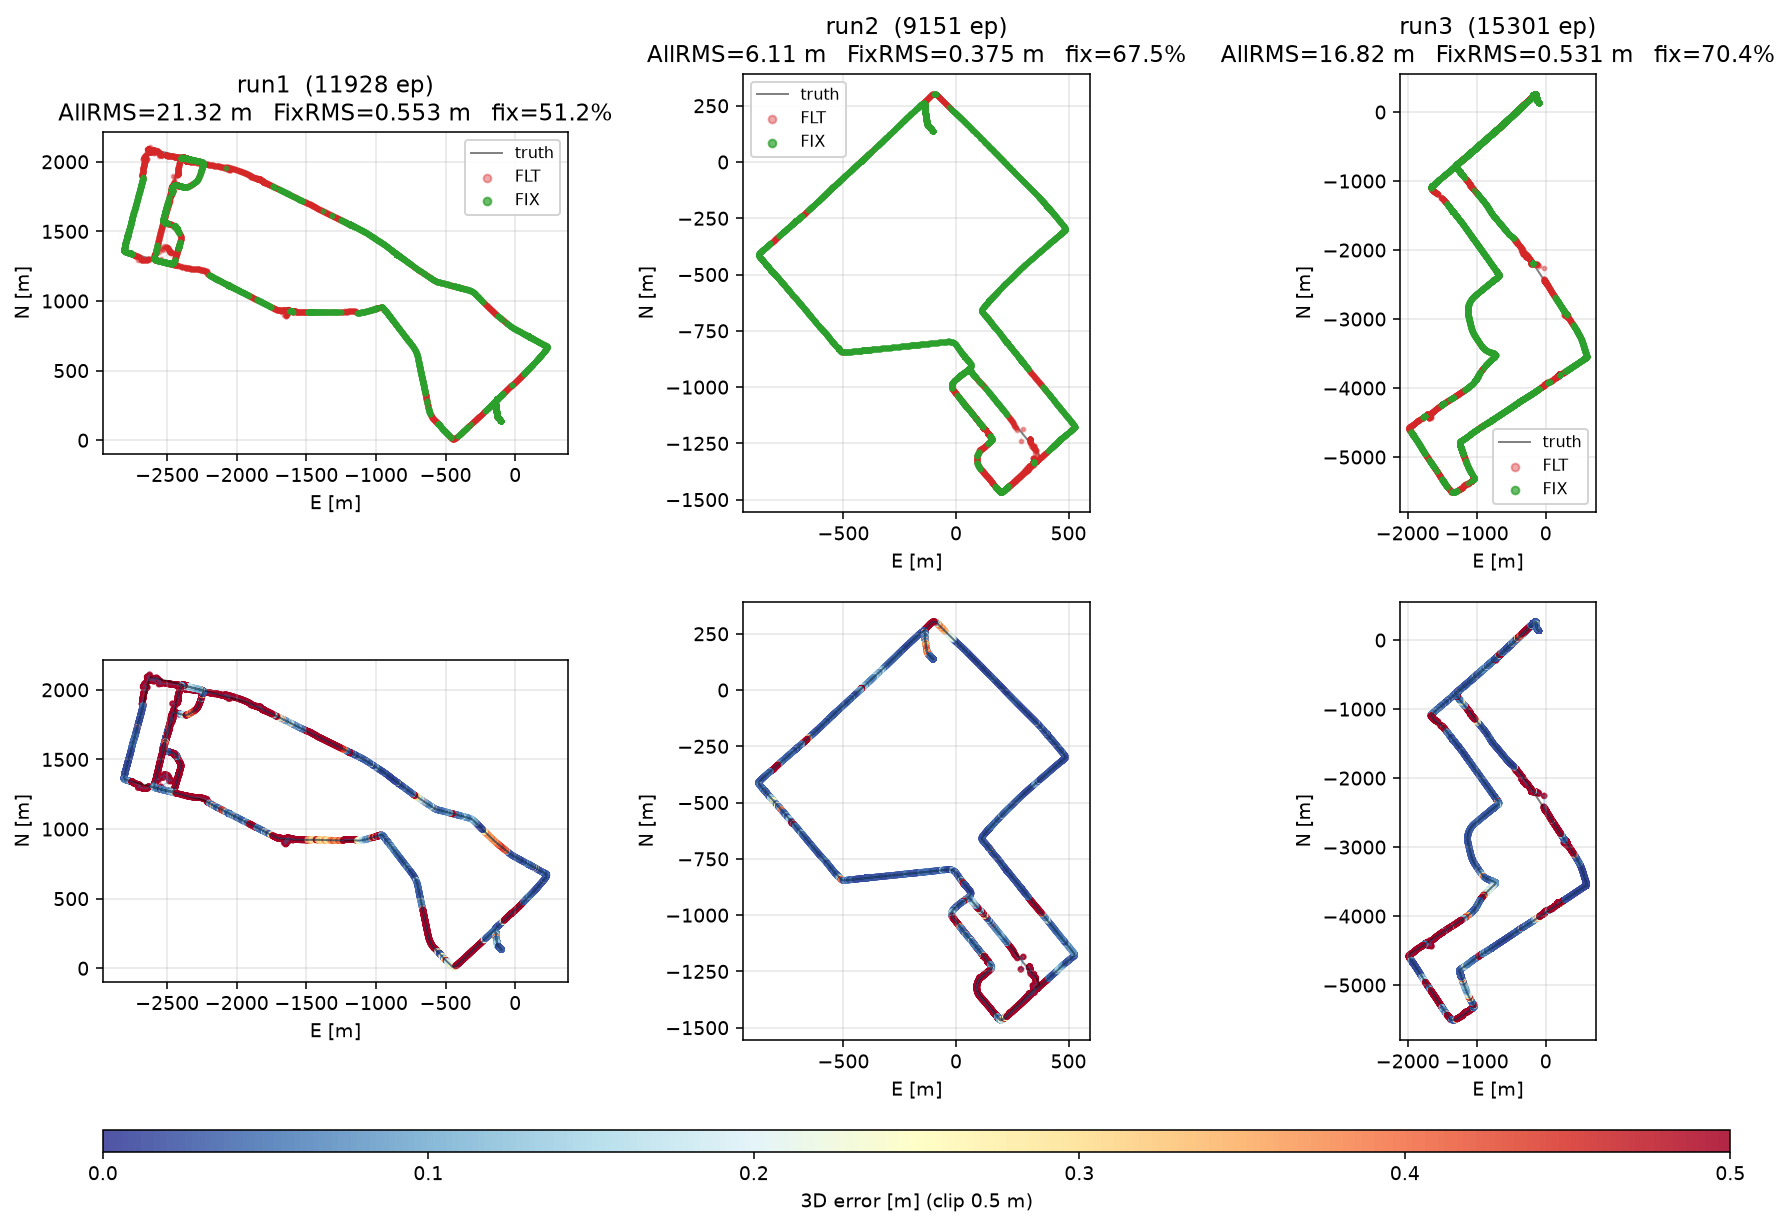
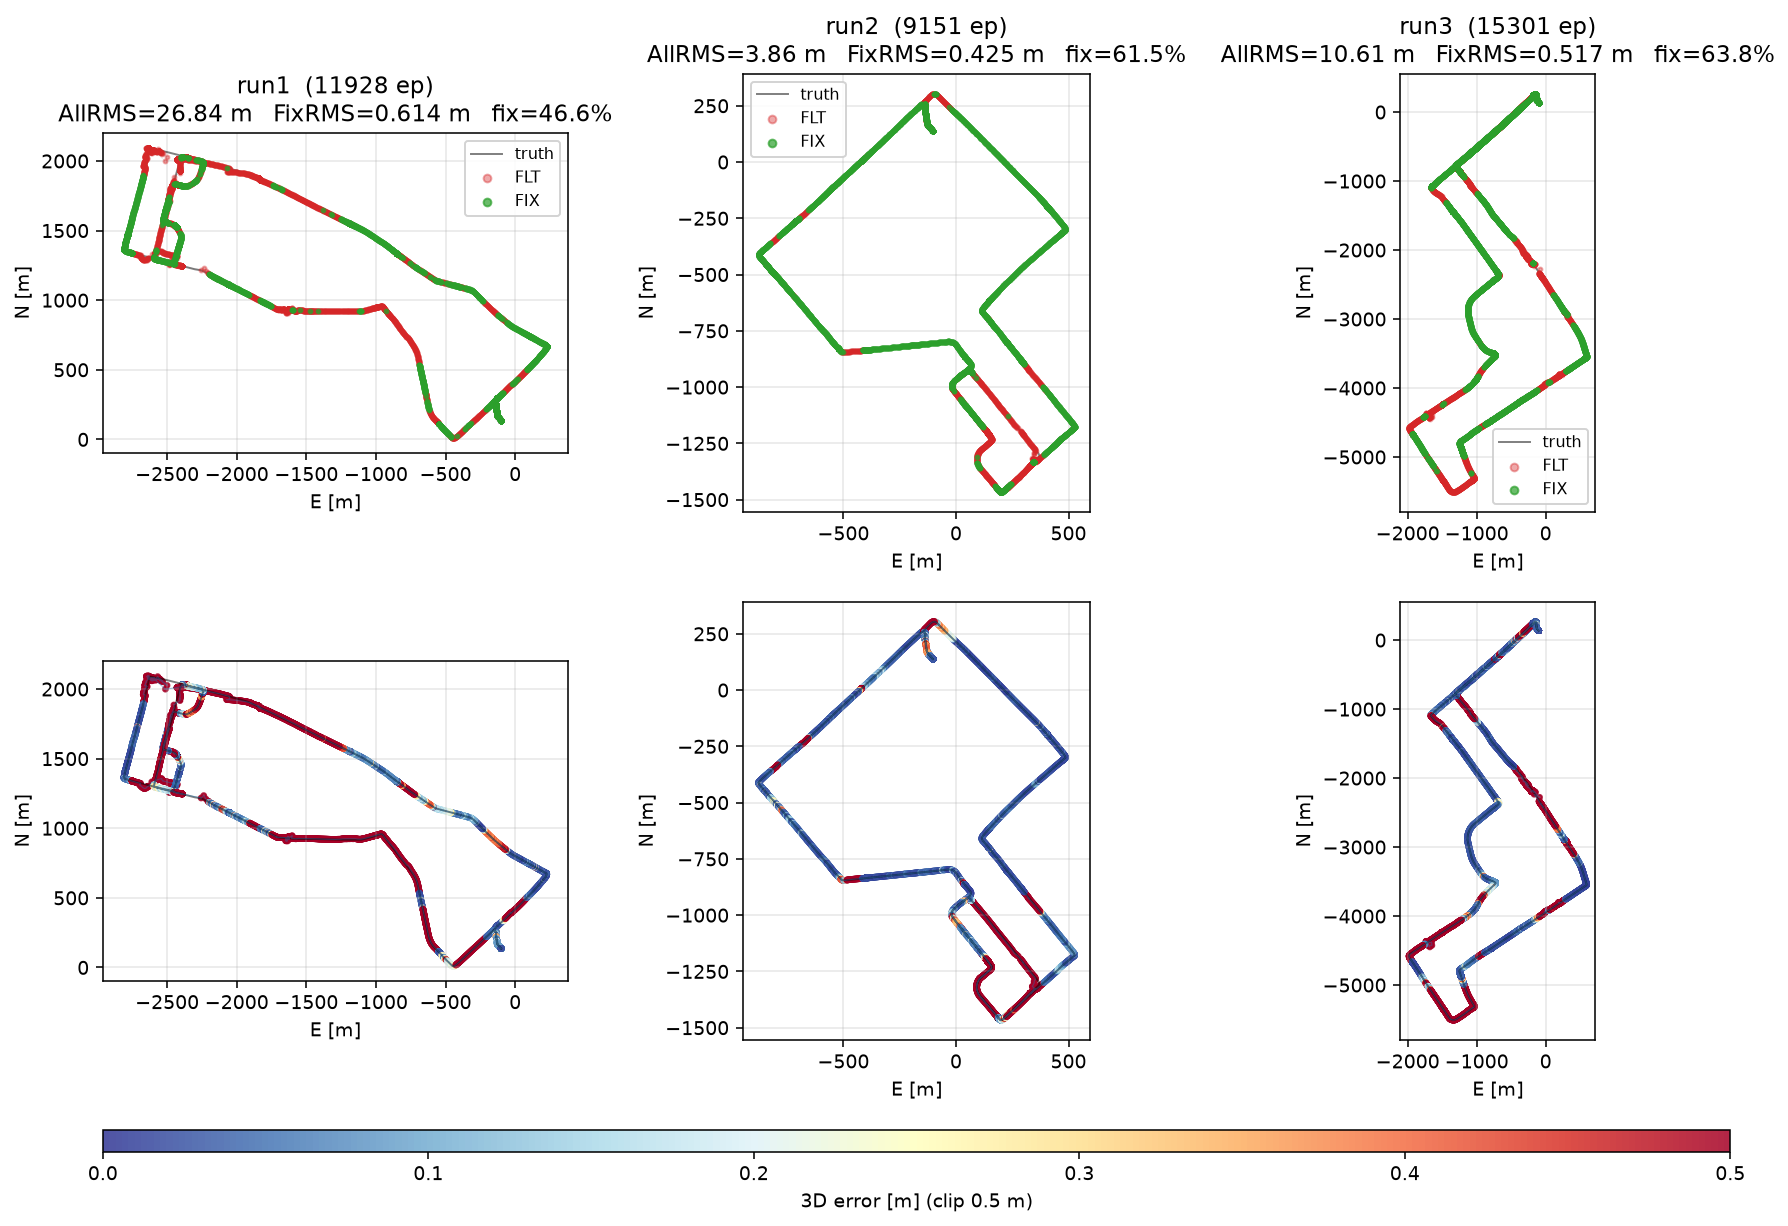
Nagoya generalization: motion-gated heading seed, delete the mres IMU inflation, close both IMU relief valves (#45)
* Heading init: seed from real motion, not centimeter noise

The phase-2 heading seed is the direction of the collected-fix
displacement; the old 1 cm validity gate let static GNSS noise pick
the sign. Slide the collection window until the vehicle has moved 2 m.
Measured: nagoya run1 solo 64.5->44.5 AllRMS; tokyo run1 21.3->23.9
(transition ep81->85) - the nagoya campaign baselines all include this.

Claude-Session: https://claude.ai/code/session_01V9XP8igCMin6EGy6zDPHdH

* Delete the mres-driven IMU integration-covariance inflation

The override softened the IMU (up to 500x variance) exactly when the
last DDPR residual rose - a pressure-relief valve that routes NLOS
bias into the position states. On nagoya's NLOS-degenerate storms the
valve is what lets the blind basin drag the pose: deleting it measures
run1 44.5->39.6, run3 25.4->17.7 (run2 +4.8). Tokyo pays in its
recoverable storms (run2 5.7->14.1, run3 18.7->25.2, run1 neutral) -
storm-entry bias now bends velocity/pitch instead, the follow-up
robust-DD work addresses that channel. The two knobs existed only for
this mechanism.

Claude-Session: https://claude.ai/code/session_01V9XP8igCMin6EGy6zDPHdH

* GICI port infrastructure, dark at defaults: dd_huber + honest thresholds + iterative-FDE repairs

- dd_huber (default 0 = off): Huber wrap on DDPR/DDCP noise only —
  ambiguity priors/holds keep plain noise. GICI applies HuberLoss(1)
  to pseudorange/phaserange/doppler; doppler already had its own.
[…]

diff --git a/src/gnss_fgo/factors/imu_preintegration.py b/src/gnss_fgo/factors/imu_preintegration.py
@@ -1,9 +1,7 @@
 """IMU preintegration + IMU chain factors.
 
 Owns:
-  * PIM construction (``build_pim`` / ``build_pim_from_idx``) with the
-    per-epoch integration-covariance override that scales σ_pos by
-    last-epoch DDPR residual when configured.
+  * PIM construction (``build_pim`` / ``build_pim_from_idx``).
   * IMU chain wiring (``add_imu_chain``) that adds the
     ``CombinedImuFactor`` between consecutive epochs and the
     per-epoch ``BetweenFactorConstantBias``.
@@ -47,28 +45,6 @@ def bias_prior_anchor(tc, bias_prev):
     return tc.tc_bias_init
 
 
-def _apply_mres_integ_cov_override(tc):
-    """Per-epoch ``integ_eff = min(imu_integ_cov_max, max(imu_integ_cov, mres²/dt))``."""
-    last_mres = float(tc._mres_signals.last_res)
-    last_ep = int(tc._mres_signals.epoch)
-    stale_max = int(tc.cfg.ddcp_res_weight_stale_max_epochs)
-    is_stale = stale_max > 0 and (tc.epoch - last_ep) > stale_max
-    default_cov = float(tc.cfg.imu_integ_cov)
-    # Smooth inflation per epoch: integ_eff = max(default, mres²/dt),
-    # capped by imu_integ_cov_max. No threshold / window cliffs — small
-    # mres degrades naturally to default via the max(). Stale signals
-    # (no recent DDPR) are skipped so a long IMU-only outage doesn't
-    # carry old inflation.
-    if is_stale:
-        integ_eff = default_cov
-    else:
-        integ_eff = max(default_cov, last_mres ** 2 / max(tc._epoch_dt, 1e-3))
-        cap = float(tc.cfg.imu_integ_cov_max)
-        if cap > 0:
-            integ_eff = min(integ_eff, cap)
-    tc.imu_params.setIntegrationCovariance(integ_eff * np.eye(3))
-
-
 def build_pim(tc, bias, target_tow=None):
     """Thin adapter — see utils.imu.build_pim. Advances tc.imu_idx."""
     pim, n, gyro_mean, tc.imu_idx = build_pim_from_idx(
@@ -78,7 +54,6 @@ def build_pim(tc, bias, target_tow=None):
 
 def build_pim_from_idx(tc, bias, imu_idx, target_tow=None):
     """Build a PIM from an explicit IMU cursor without mutating tc state."""
-    _apply_mres_integ_cov_override(tc)
     return _utils_build_pim(
         tc.imu_params, bias, tc.imu_data, imu_idx,
         target_tow=target_tow)

diff --git a/src/gnss_fgo/config.py b/src/gnss_fgo/config.py
@@ -30,8 +30,8 @@ class _SubConfigView:
 
 IMU_PRESETS = {
     # 'tactical' == the class defaults below (accel/gyro noise carry the
-    # measured x100/x1000 inflation); listed so the table tells the truth.
-    'tactical':   dict(accel_noise=2.84e-2, gyro_noise=4.01e-2,
+    # measured x10/x100 inflation); listed so the table tells the truth.
+    'tactical':   dict(accel_noise=2.84e-3, gyro_noise=4.01e-3,
                        accel_bias_sigma=3.14e-4, gyro_bias_sigma=9.70e-6),
     'consumer':   dict(accel_noise=2.0e-3,  gyro_noise=4.0e-4,
                        accel_bias_sigma=1.0e-3,  gyro_bias_sigma=5.0e-5),
@@ -118,10 +118,8 @@ class TcConfig:
 
     # CP-hold triggers
     recov_cp_hold: int = 5         # hold DDCP for N epochs after any trigger
-    ddcp_res_weight_stale_max_epochs: int = 2
     sanity_max_median_ratio: float = 5.0
     sanity_max_median_min_sats: int = 6
-    imu_integ_cov_max: float = 0.5
 
     main_ddpr_res_thresh: float = 3.0   # elevation-normalized pseudo-m (see residuals.main_ddpr_residuals)
     ddpr_sanity_persist: int = 3      # 3 consecutive bad → DDPR-LS anchor
@@ -134,10 +132,9 @@ class TcConfig:
 
     # IMU noise (select via imu_grade or override individual σ)
     imu_grade: str = 'tactical'    # 'tactical'|'consumer'|'industrial'|'nav_grade'
-    imu_scale: float = 1.0         # multiplier on accel/gyro noise +
     imu_integ_cov: float = 1e-3    # position integration noise [m²/s]
-    accel_noise: float = 2.84e-2   # [m/s²/√Hz]   (spec ×100)
-    gyro_noise: float = 4.01e-2    # [rad/s/√Hz]  (spec ×1000) — looser
+    accel_noise: float = 2.84e-3   # [m/s²/√Hz]   (spec ×10)
+    gyro_noise: float = 4.01e-3    # [rad/s/√Hz]  (spec ×100)
     accel_bias_sigma: float = 3.14e-4
     gyro_bias_sigma: float = 9.70e-6
 

diff --git a/src/gnss_fgo/pipeline/residuals.py b/src/gnss_fgo/pipeline/residuals.py
@@ -186,7 +186,8 @@ def _fde_collect_residuals(tc, factors_all, fi_start, nf_total, estimate):
 
 
 def _fde_pick_rejects_iterative(tc, pr_entries, cp_entries):
-    """Iterative FDE: pick the SINGLE largest outlier across PR and CP."""
+    """Iterative FDE: pick the SINGLE largest outlier across PR and CP.
+    No centering — sign-less magnitudes made it measured-worse."""
     best_d = 0.0
     best_fi = None
     for fi, res in pr_entries:
@@ -254,13 +255,22 @@ def apply_fde(tc, graph, key_idx, nv, estimate, info):
     for _it in range(max_iter):
         factors_all = tc.isam2.getFactors()
         nf_total = factors_all.size()
-        fi_start = 0 if iterative else max(0, nf_total - graph.size())
+        # Current epoch's factors only: rejecting history
+        # un-anchors the trajectory (measured km-scale divergence).
+        fi_start = max(0, nf_total - graph.size())
         pr_entries, cp_entries = _fde_collect_residuals(
             tc, factors_all, fi_start, nf_total, estimate)
         # GICI-style median subtract removes pose-common-mode bias.
         if iterative:
             reject_fi = _fde_pick_rejects_iterative(tc, pr_entries, cp_entries)
             if not reject_fi:
+                break
+            # Same over-rejection safeguard as single-pass.
+            if total_rejected + 1 > tc.cfg.fde_max_frac * max(1, nv):
+                info['fde_skipped'] = total_rejected + 1
+                _tc_state.trigger_cp_hold(tc, 'fde_safeguard', info,
+                                     value=info['fde_skipped'],
+                                     skip_if_active=True)
                 break
         else:
             reject_fi = _fde_pick_rejects_single_pass(tc, pr_entries, cp_entries)

diff --git a/src/gnss_fgo/utils/imu.py b/src/gnss_fgo/utils/imu.py
@@ -23,24 +23,18 @@ def make_imu_params(
     gyro_noise: float,
     accel_bias_sigma: float,
     gyro_bias_sigma: float,
-    scale: float,
     integ_cov: float) -> gtsam.PreintegrationCombinedParams:
-    """Build PreintegrationCombinedParams for GTSAM CombinedImuFactor.
-
-    `scale` is a multiplier applied to all accel/gyro/bias sigmas
-    (e.g. IMU_SCALE for coarse-grade IMUs, or >1 for a relaxed recovery PIM).
-    """
-    s = scale
+    """Build PreintegrationCombinedParams for GTSAM CombinedImuFactor."""
     # The TC state uses ENU navigation + FLU body. IMU samples are already
     # in body FLU (see sensor_to_body_flu) so body_P_sensor is identity.
     p = gtsam.PreintegrationCombinedParams.MakeSharedU(9.81)
     p.setBodyPSensor(gtsam.Pose3(gtsam.Rot3(np.eye(3)),
                                  gtsam.Point3(0.0, 0.0, 0.0)))
-    p.setAccelerometerCovariance((accel_noise * s) ** 2 * np.eye(3))
-    p.setGyroscopeCovariance((gyro_noise * s) ** 2 * np.eye(3))
+    p.setAccelerometerCovariance(accel_noise ** 2 * np.eye(3))
+    p.setGyroscopeCovariance(gyro_noise ** 2 * np.eye(3))
     p.setIntegrationCovariance(integ_cov * np.eye(3))
-    p.setBiasAccCovariance((accel_bias_sigma * s) ** 2 * np.eye(3))
-    p.setBiasOmegaCovariance((gyro_bias_sigma * s) ** 2 * np.eye(3))
+    p.setBiasAccCovariance(accel_bias_sigma ** 2 * np.eye(3))
+    p.setBiasOmegaCovariance(gyro_bias_sigma ** 2 * np.eye(3))
     return p
 
 

diff --git a/src/gnss_fgo/initialization.py b/src/gnss_fgo/initialization.py
@@ -221,8 +221,14 @@ def _p1_collect_and_maybe_transition(tc, obs, obsb, obs_sd, rs, vs, dts,
         })
         info['n_collected'] = len(tc.collected_fixes)
 
-        # Check if we have enough
-        if len(tc.collected_fixes) >= tc.cfg.n_collect:
+        # The heading seed is the collected displacement's direction;
+        # cm GNSS noise coin-flips it. Wait for real motion.
+        if len(tc.collected_fixes) > tc.cfg.n_collect:
+            tc.collected_fixes.pop(0)
+        disp = np.linalg.norm(tc.collected_fixes[-1]['ecef']
+                              - tc.collected_fixes[0]['ecef']) \
+            if len(tc.collected_fixes) >= 2 else 0.0
+        if len(tc.collected_fixes) >= tc.cfg.n_collect and disp > 2.0:
             p, r, h, ba0, bg0 = transition_to_tc(tc, tc.collected_fixes)
             info['transition'] = True
             info['pitch'] = np.degrees(p)

diff --git a/src/gnss_fgo/ar/__init__.py b/src/gnss_fgo/ar/__init__.py
@@ -14,12 +14,15 @@ This package root wires them into the epoch flow (:func:`run_ar`).
 import numpy as np
 
 from . import gates as ar_gates
-from . import hold as ar_hold  # re-exported: callers apply fix-and-hold
+from . import hold as ar_hold
 from . import nav_bridge
 from . import problem as ar_problem
 from . import retry as ar_retry
 from . import subset as ar_subset
 from .ambiguity_resolver import AmbiguityResolver
+
+__all__ = ['ar_gates', 'ar_hold', 'nav_bridge', 'ar_problem',
+           'ar_retry', 'ar_subset', 'AmbiguityResolver', 'run_ar']
 
 
 

diff --git a/src/gnss_fgo/runner.py b/src/gnss_fgo/runner.py
@@ -287,7 +287,6 @@ class ImuGnssTc:
             gyro_noise=self.gyro_noise,
             accel_bias_sigma=self.accel_bias_sigma,
             gyro_bias_sigma=self.gyro_bias_sigma,
-            scale=self.cfg.imu_scale,
             integ_cov=self.cfg.imu_integ_cov)
 
     def _antenna_ecef(self, pose, ecef_body):

diff --git a/README.md b/README.md
@@ -42,9 +42,9 @@ end to end:
 
 | run  | length    | AllRMS  | median  | FixRMS  | fix %  | <50 cm |
 |------|-----------|---------|---------|---------|--------|--------|
-| run1 | 11928 ep  | 21.32 m | 0.21 m  | 0.55 m  | 51.2 % | 58.7 % |
-| run2 |  9151 ep  |  6.11 m | 0.052 m | 0.38 m  | 67.5 % | 77.4 % |
-| run3 | 15301 ep  | 16.82 m | 0.047 m | 0.53 m  | 70.4 % | 76.5 % |
+| run1 | 11928 ep  | 26.84 m | 0.27 m  | 0.61 m  | 46.6 % | 56.6 % |
+| run2 |  9151 ep  |  3.86 m | 0.054 m | 0.43 m  | 61.5 % | 72.4 % |
+| run3 | 15301 ep  | 10.61 m | 0.049 m | 0.52 m  | 63.8 % | 68.9 % |
 
 run1 is the hardest route — a deep canyon plus a full tunnel blackout,
 bridged by IMU + SD Doppler dead reckoning.
